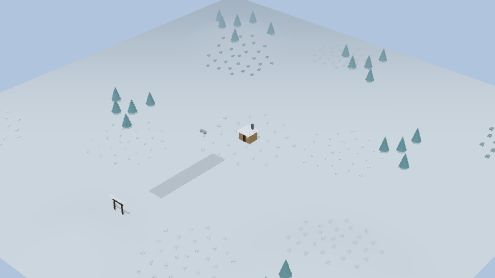
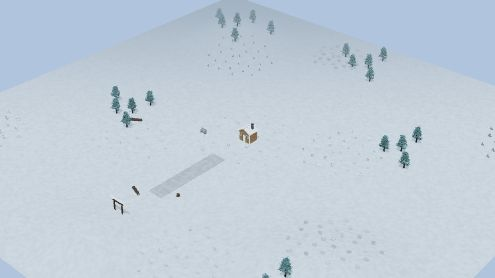
Add natural woodland props and varied plant clumps

diff --git a/src/scene/Plants.tsx b/src/scene/Plants.tsx
@@ -1,27 +1,35 @@
 import { useEffect, useLayoutEffect, useMemo, useRef } from 'react'
 import { BufferGeometry, CircleGeometry, Color, DoubleSide, CylinderGeometry, Float32BufferAttribute, IcosahedronGeometry, InstancedMesh, Object3D, SphereGeometry } from 'three'
 import { mergeGeometries, mergeVertices } from 'three/addons/utils/BufferGeometryUtils.js'
-import { leafGeometry, seedFor } from './natural-geometry'
+import { leafGeometry, randomSource, seedFor } from './natural-geometry'
 import type { WorldObject } from '../world/schema'
 
 type Plant = Extract<WorldObject, { type: 'plant' }>
+export const plantVariant = (plant: Plant) => seedFor(plant.id) % 3
 
 // Each cluster is one merged low-poly mesh; repeated clusters are instanced.
-export function plantGeometry(plant: Plant, lowDetail: boolean) {
+export function plantGeometry(plant: Plant, lowDetail: boolean, variant = plantVariant(plant)) {
   const parts: BufferGeometry[] = []
+  const random = randomSource(825 + variant * 173)
+  let stemX = 0, stemZ = 0, lean = 0, shade = 1
   const add = (geometry: BufferGeometry, color: string, x: number, y: number, z: number, sx = 1, sy = 1, sz = 1, tilt = 0) => {
     const g = geometry.index ? geometry.toNonIndexed() : geometry
     if (g !== geometry) geometry.dispose()
     g.scale(sx, sy, sz).rotateZ(tilt).translate(x, y, z)
-    const c = new Color(color), colors = []
+    // Bend the whole stem and its attached flowers/leaves together at the base.
+    g.translate(-stemX, 0, -stemZ).rotateZ(lean).translate(stemX, 0, stemZ)
+    const c = new Color(color).multiplyScalar(shade), colors = []
     for (let i = 0; i < g.getAttribute('position').count; i++) colors.push(c.r, c.g, c.b)
     g.setAttribute('color', new Float32BufferAttribute(colors, 3))
     g.deleteAttribute('uv')
     parts.push(g)
   }
   for (let i = 0; i < (lowDetail ? 3 : 5); i++) {
-    const angle = i * 2.4, radius = i === 0 ? 0 : 0.28 + (i % 2) * 0.15
-    const x = Math.cos(angle) * radius, z = Math.sin(angle) * radius, h = 0.55 + (i % 3) * 0.18
+    const angle = i * 2.4 + (random() - 0.5) * 1.1, radius = i === 0 ? 0 : 0.22 + random() * 0.2
+    const x = Math.cos(angle) * radius, z = Math.sin(angle) * radius, h = 0.45 + random() * 0.5
+    stemX = x; stemZ = z
+    lean = plant.variety === 'bamboo' || plant.variety === 'cactus' ? 0 : (random() - 0.5) * 0.2
+    shade = 0.88 + random() * 0.24
     switch (plant.variety) {
       case 'bamboo':
         add(new CylinderGeometry(0.045, 0.065, 2.6 + h, 5), plant.color, x, (2.6 + h) / 2, z)
@@ -70,9 +78,9 @@ export function plantGeometry(plant: Plant, lowDetail: boolean) {
   return result
 }
 
-function PlantBatch({ plants, lowDetail }: { plants: Plant[]; lowDetail: boolean }) {
+function PlantBatch({ plants, lowDetail, variant }: { plants: Plant[]; lowDetail: boolean; variant: number }) {
   const mesh = useRef<InstancedMesh>(null)
-  const geometry = useMemo(() => plantGeometry(plants[0], lowDetail), [plants, lowDetail])
+  const geometry = useMemo(() => plantGeometry(plants[0], lowDetail, variant), [plants, lowDetail, variant])
   useEffect(() => () => geometry.dispose(), [geometry])
   useLayoutEffect(() => {
     const transform = new Object3D()
@@ -97,12 +105,12 @@ export function Plants({ objects, lowDetail }: { objects: WorldObject[]; lowDeta
   const batches = useMemo(() => {
     const groups = new Map<string, Plant[]>()
     for (const object of objects) if (object.type === 'plant') {
-      const key = `${object.variety}/${object.color}/${object.accentColor}`
+      const key = `${object.variety}/${object.color}/${object.accentColor}/${plantVariant(object)}`
       const group = groups.get(key) ?? []
       group.push(object)
       groups.set(key, group)
     }
     return [...groups]
   }, [objects])
-  return batches.map(([key, plants]) => <PlantBatch key={key} plants={plants} lowDetail={lowDetail} />)
+  return batches.map(([key, plants]) => <PlantBatch key={key} plants={plants} lowDetail={lowDetail} variant={plantVariant(plants[0])} />)
 }

diff --git a/src/scene/artifact-geometry.ts b/src/scene/artifact-geometry.ts
@@ -1,4 +1,5 @@
-import { BoxGeometry, Color, ConeGeometry, CylinderGeometry, ExtrudeGeometry, Shape, SphereGeometry, Vector3 } from 'three'
+import type { BufferGeometry } from 'three'
+import { BoxGeometry, CircleGeometry, Color, ConeGeometry, CylinderGeometry, ExtrudeGeometry, RingGeometry, Shape, SphereGeometry, Vector3 } from 'three'
 import { RoundedBoxGeometry } from 'three/addons/geometries/RoundedBoxGeometry.js'
 import type { WorldObject } from '../world/schema'
 import { branchGeometry, geometryBuilder, randomSource } from './natural-geometry'
@@ -56,6 +57,48 @@ export function artifactGeometry(object: Artifact) {
     block([0, 2.6, 0], [3.15, 0.18, 0.23])
     block([0, 3.18, 0], [2.8, 0.22, 0.5], trim)
     block([0, 2.88, 0], [0.18, 0.6, 0.18])
+  } else if (object.variety === 'fallen-log' || object.variety === 'stump') {
+    const log = object.variety === 'fallen-log'
+    const length = log ? 2.9 : 0.62, bottom = log ? 0.34 : 0.38, top = log ? 0.27 : 0.3
+    const slope = log ? Math.atan((bottom - top) / length) : 0
+    const orient = (g: BufferGeometry, end = 0) => {
+      // The tapered log rests at both ends instead of hovering at its thin end.
+      if (log) g.rotateZ(-Math.PI / 2 - slope).translate(end * Math.cos(slope), 0.31 - end * Math.sin(slope), 0)
+      else g.translate(0, end, 0)
+      return g
+    }
+    // Closed wood ends, with rings on the actual cut planes rather than floating
+    // perpendicular branch stubs. Bark remains one merged, indexed mesh.
+    builder.add(orient(new CylinderGeometry(top, bottom, length, 13), 0).translate(0, log ? 0 : length / 2, 0), body)
+    for (const end of log ? [-1, 1] : [1]) {
+      const radius = (end < 0 ? bottom : top) - 0.012
+      const cut = end * length / (log ? 2 : 1) + end * 0.002
+      const face = new CircleGeometry(radius, 32).rotateX(-Math.PI / 2)
+      // Reverse the left end so its visible face points outward.
+      if (end < 0) face.rotateX(Math.PI)
+      builder.add(orient(face, cut), trim)
+      for (let ring = 1; ring <= 6; ring++) {
+        const r = radius * ring / 7
+        const g = new RingGeometry(r - 0.0035, r + 0.0035, 32).rotateX(-Math.PI / 2)
+        if (end < 0) g.rotateX(Math.PI)
+        builder.add(orient(g, cut + end * 0.001), dark)
+      }
+    }
+    for (let ridge = 0; ridge < 13; ridge++) {
+      const angle = ridge * Math.PI * 2 / 13
+      const lower = bottom * 0.95 + top * 0.05 - 0.012, upper = top * 0.95 + bottom * 0.05 - 0.012
+      const g = branchGeometry(new Vector3(Math.cos(angle) * lower, -length * 0.45, Math.sin(angle) * lower),
+        new Vector3(Math.cos(angle) * upper, length * 0.45, Math.sin(angle) * upper), 0.025, 0.016)
+      builder.add(orient(g).translate(0, log ? 0 : length / 2, 0), ridge % 3 ? body : dark)
+    }
+    // A few subdued moss islands hug the upper bark; no extra meshes or colliders.
+    for (let i = 0; i < (log ? 6 : 3); i++) {
+      const x = log ? -0.95 + i * 0.36 : Math.cos(i * 2.4) * 0.21
+      const z = log ? Math.sin(i * 2.4) * 0.12 : Math.sin(i * 2.4) * 0.21
+      const radius = bottom + (top - bottom) * (x / length + 0.5)
+      const y = log ? 0.31 - x * Math.sin(slope) + Math.sqrt(Math.max(0, radius ** 2 - z ** 2)) : length + 0.008
+      builder.add(new SphereGeometry(0.12, 7, 4).scale(1.3, 0.18, 0.7).translate(x, y, z), '#65754b', 0.85 + i * 0.03)
+    }
   } else if (object.variety === 'bench') {
     for (let slat = 0; slat < 4; slat++) block([0, 0.55, -0.24 + slat * 0.16], [1.8, 0.12, 0.14], trim)
     for (const x of [-0.6, 0.6]) {

diff --git a/src/world/object-bounds.test.ts b/src/world/object-bounds.test.ts
@@ -33,14 +33,14 @@ describe('generated object boundaries', () => {
     const objects: WorldObject[] = [
       ...(['pine', 'maple', 'spruce', 'palm'] as const).map(variety => ({ ...transform, type: 'tree' as const, variety, foliageColor: '#557755', trunkColor: '#665544' })),
       ...(['grass', 'flowers', 'reeds', 'bamboo', 'cactus', 'fern', 'mushrooms'] as const).map(variety => ({ ...transform, type: 'plant' as const, variety, color: '#557755', accentColor: '#ccaaaa' })),
-      ...(['arch', 'bench', 'cabin', 'column', 'pavilion', 'beacon', 'windmill'] as const).map(variety => ({ ...transform, type: 'structure' as const, variety, color: '#998877', accentColor: '#ccaaaa' })),
+      ...(['arch', 'bench', 'cabin', 'column', 'pavilion', 'beacon', 'windmill', 'fallen-log', 'stump'] as const).map(variety => ({ ...transform, type: 'structure' as const, variety, color: '#998877', accentColor: '#ccaaaa' })),
       { ...transform, type: 'entrance', woodColor: '#998877', roofColor: '#665544' },
       { ...transform, type: 'lantern', stoneColor: '#998877', glowColor: '#ccaaaa' },
       { ...transform, type: 'rock', color: '#998877' },
     ]
     for (const object of objects) for (const lowDetail of [false, true]) for (const variant of [0, 1, 2]) {
       const geometry = object.type === 'tree' ? treeGeometry(object, lowDetail, variant)
-        : object.type === 'plant' ? plantGeometry(object, lowDetail)
+        : object.type === 'plant' ? plantGeometry(object, lowDetail, variant)
         : object.type === 'rock' ? rockGeometry(object, variant)
         : artifactGeometry(object as Extract<WorldObject, { type: 'structure' | 'entrance' | 'lantern' }>)
       try {

diff --git a/src/scene/natural-geometry.test.ts b/src/scene/natural-geometry.test.ts
@@ -6,6 +6,16 @@ import type { WorldObject } from '../world/schema'
 
 const transform = { id: 'fixture', position: [0, 0, 0] as [number, number, number], scale: [1, 1, 1] as [number, number, number], rotation: 0 }
 describe('natural asset geometry budgets and variation', () => {
+  it('varies plant clump shapes deterministically while retaining a small fallback mesh', () => {
+    const plant = { ...transform, type: 'plant' as const, variety: 'flowers' as const, color: '#537c34', accentColor: '#ccb147' }
+    const a = plantGeometry(plant, false, 0), b = plantGeometry(plant, false, 0), c = plantGeometry(plant, false, 1), low = plantGeometry(plant, true, 0)
+    try {
+      expect(a.getAttribute('position').array).toEqual(b.getAttribute('position').array)
+      expect(a.getAttribute('position').array).not.toEqual(c.getAttribute('position').array)
+      expect(low.getIndex()!.count).toBeLessThan(a.getIndex()!.count)
+      expect(a.getIndex()!.count / 3).toBeLessThan(1200)
+    } finally { a.dispose(); b.dispose(); c.dispose(); low.dispose() }
+  })
   it('builds deterministic but distinct tree variants within a bounded mesh budget', () => {
     const tree: Extract<WorldObject, { type: 'tree' }> = { ...transform, type: 'tree', variety: 'maple', trunkColor: '#785638', foliageColor: '#548637' }
     const a = treeGeometry(tree, false, 0), b = treeGeometry(tree, false, 0), c = treeGeometry(tree, false, 1), reduced = treeGeometry(tree, true, 0)

diff --git a/netlify/functions/create-world.ts b/netlify/functions/create-world.ts
@@ -46,7 +46,11 @@ Aim for 240–320 small ground-cover plants in suitable environments. Use trees 
 Use 2–4 consistent plant palettes to benefit instancing. Vary terrain, water count and shape (including none),
 vegetation density/species, scale, landmarks, composition, fog, sky and light to match the prompt.
 Asset types: tree (pine/maple/spruce/palm); plant (grass/flowers/reeds/bamboo/cactus/fern/mushrooms);
-structure (arch/pavilion/cabin/beacon/windmill/column/bench); rock; pond; path; patch; lantern; entrance.
+structure (arch/pavilion/cabin/beacon/windmill/column/bench/fallen-log/stump); rock; pond; path; patch; lantern; entrance.
+For woodland and forest, a few fallen-log/stump structures add natural history beside the route.
+Logs are about 2.9m long and 0.7m wide/high, stumps about 0.8m wide and 0.65m tall.
+Their color is bark, accentColor is exposed wood. They are blocking solids: count 1, spread 0.
+Place them off paths on flat ground, with small fern/mushroom drifts nearby. They use the existing complex-object budget.
 Trees are 3–4m tall and 2–3m wide; plants 1–1.5m wide (bamboo 3m tall); cabin 3x2.5m;
 pavilion 3x3m; arch 3.8m wide; beacon/windmill 5m tall. Scale 0.3–2; prefer 0.7–1.3 except forest trees which benefit from 1.5–2.
 Keep objects within ground with margins for their full visible footprints, not only centers or colliders.

diff --git a/src/world/catalog.ts b/src/world/catalog.ts
@@ -13,7 +13,7 @@ import { parseWorld } from './schema'
 // uses the same validated data boundary that future generated worlds will use.
 export const worldCatalog = [
   { data: meadow, theme: '128 × 128 m · Open landscape', description: 'Follow long meadow trails between a hilltop windmill, quiet lakes, and distant woodland groves.' },
-  { data: silverwood, theme: '128 × 128 m · Frosted woodland', description: 'Wander through blue-green spruce groves, silver grass, and white flowers to a quiet cabin and distant windmill.' },
+  { data: silverwood, theme: '128 × 128 m · Frosted woodland', description: 'Wander through blue-green spruce groves, fallen timber, silver grass, and white flowers to a quiet cabin and distant windmill.' },
   { data: amberMeadow, theme: '24 × 22 m · Flowering meadow', description: 'Explore a sunny meadow of flowering plants, rolling hills, and quiet garden landmarks.' },
   { data: basaltReach, theme: '26 × 24 m · Rocky highlands', description: 'Follow a rugged highland path among dark stone, hardy plants, and distant peaks.' },
   { data: frostlightGrove, theme: '24 × 22 m · Snowy grove', description: 'Wander a frosted grove of pale trees, snow, and a sheltered clearing.' },

diff --git a/src/world/generation.test.ts b/src/world/generation.test.ts
@@ -5,6 +5,15 @@ import { createNavigation, isWalkable } from '../controls/navigation'
 import { testBlueprint } from './generation-fixture'
 
 describe('generation compiler', () => {
+  it.each(['fallen-log', 'stump'])('supplies blocking collision and boundary checks for %s', variety => {
+    const plan = { ...testBlueprint(), ground: { size: [48, 48], color: '#708060' },
+      assets: [{ type: 'structure', variety, color: '#635448', accentColor: '#bd9a69' }],
+      placements: [{ asset: 0, position: [0, 0], rotation: 0.6, scale: [1.2, 1, 0.8] }] }
+    const world = compileBlueprint(plan, 'natural-prop')
+    expect(isWalkable({ x: 0, z: 0 }, createNavigation(world))).toBe(false)
+    expect(world.objects[0].collision).toHaveLength(1)
+    expect(() => compileBlueprint({ ...plan, placements: [{ ...plan.placements[0], position: [23.9, 0] }] }, 'overhanging-prop')).toThrow('Object outside the world')
+  })
   it.each([[48, 48], [64, 64], [96, 96], [128, 128], [48, 64]])('accepts a %s by %s world with an authored arrival', (width, depth) => {
     const plan = { ...testBlueprint(), ground: { size: [width, depth], color: '#708060' }, arrival: [0, 10] }
     const world = compileBlueprint(plan, 'variable-size')

diff --git a/src/world/schema.ts b/src/world/schema.ts
@@ -30,7 +30,7 @@ export const worldObjectSchema = z.discriminatedUnion('type', [
   z.strictObject({ ...transform, type: z.literal('rock'), color, mossColor: color.optional() }),
   z.strictObject({ ...transform, type: z.literal('tree'), variety: z.enum(['pine', 'maple', 'spruce', 'palm']), foliageColor: color, trunkColor: color }),
   z.strictObject({ ...transform, type: z.literal('plant'), variety: z.enum(['grass', 'flowers', 'reeds', 'bamboo', 'cactus', 'fern', 'mushrooms']), color, accentColor: color }),
-  z.strictObject({ ...transform, type: z.literal('structure'), variety: z.enum(['arch', 'pavilion', 'cabin', 'beacon', 'windmill', 'column', 'bench']), color, accentColor: color }),
+  z.strictObject({ ...transform, type: z.literal('structure'), variety: z.enum(['arch', 'pavilion', 'cabin', 'beacon', 'windmill', 'column', 'bench', 'fallen-log', 'stump']), color, accentColor: color }),
   z.strictObject({ ...transform, type: z.literal('patch'), radii: z.tuple([dimension, dimension]), color }),
   z.strictObject({ ...transform, type: z.literal('lantern'), stoneColor: color, glowColor: color }),
   z.strictObject({ ...transform, type: z.literal('entrance'), woodColor: color, roofColor: color }),

diff --git a/src/scene/artifact-geometry.test.ts b/src/scene/artifact-geometry.test.ts
@@ -3,7 +3,7 @@ import { artifactGeometry } from './artifact-geometry'
 import type { Artifact } from './artifact-geometry'
 const transform = { id: 'fixture', position: [0, 0, 0] as [number, number, number], scale: [1, 1, 1] as [number, number, number], rotation: 0 }
 const artifacts: Artifact[] = [
-  ...(['arch', 'pavilion', 'cabin', 'beacon', 'windmill', 'column', 'bench'] as const).map(variety => ({ ...transform, type: 'structure' as const, variety, color: '#786447', accentColor: '#6b7665' })),
+  ...(['arch', 'pavilion', 'cabin', 'beacon', 'windmill', 'column', 'bench', 'fallen-log', 'stump'] as const).map(variety => ({ ...transform, type: 'structure' as const, variety, color: '#786447', accentColor: '#6b7665' })),
   { ...transform, type: 'entrance', woodColor: '#786447', roofColor: '#6b7665' },
   { ...transform, type: 'lantern', stoneColor: '#786447', glowColor: '#ffeeaa' },
 ]

diff --git a/src/scene/Structure.tsx b/src/scene/Structure.tsx
@@ -6,7 +6,7 @@ import { SurfaceMaterial } from './SurfaceMaterial'
 export function Structure({ object, lowDetail = false }: { object: Artifact; lowDetail?: boolean }) {
   const geometry = useMemo(() => artifactGeometry(object), [object])
   useEffect(() => () => geometry.dispose(), [geometry])
-  const wood = object.type === 'entrance' || (object.type === 'structure' && ['bench', 'cabin', 'pavilion', 'windmill'].includes(object.variety))
+  const wood = object.type === 'entrance' || (object.type === 'structure' && ['bench', 'cabin', 'pavilion', 'windmill', 'fallen-log', 'stump'].includes(object.variety))
   return <group>
     <mesh geometry={geometry} castShadow receiveShadow>
       {lowDetail ? <meshStandardMaterial vertexColors roughness={0.94} /> : <SurfaceMaterial vertexColors grain={0.12} finish={wood ? 'wood' : 'stone'} relief={false} />}

diff --git a/src/world/generation.ts b/src/world/generation.ts
@@ -39,6 +39,8 @@ function collisions(object: WorldObject): WorldObject['collision'] {
     case 'entrance': return [ellipse([0.3, 0.3], [-1.2, 0]), ellipse([0.3, 0.3], [1.2, 0])]
     case 'plant': return ['cactus', 'bamboo'].includes(object.variety) ? [ellipse([0.65, 0.65])] : []
     case 'structure':
+      if (object.variety === 'fallen-log') return [box([3.1, 0.9])]
+      if (object.variety === 'stump') return [ellipse([0.42, 0.42])]
       if (object.variety === 'arch') return [box([0.7, 1], [-1.4, 0]), box([0.7, 1], [1.4, 0])]
       if (object.variety === 'pavilion') return [-1.2, 1.2].flatMap(x => [-1.2, 1.2].map(z => box([0.25, 0.25], [x, z])))
       return [box(object.variety === 'cabin' ? [3, 2.5] : object.variety === 'column' ? [1.2, 1.2] : object.variety === 'bench' ? [1.9, 0.7] : [2.4, 2.4])]

diff --git a/src/scene/vegetation-clearance.ts b/src/scene/vegetation-clearance.ts
@@ -13,8 +13,8 @@ export function plantFootprint(plant: Plant): Bounds {
   let bounds = footprintCache.get(plant.variety)
   if (!bounds) {
     bounds = { minX: Infinity, maxX: -Infinity, minZ: Infinity, maxZ: -Infinity }
-    for (const lowDetail of [false, true]) {
-      const geometry = plantGeometry(plant, lowDetail)
+    for (const lowDetail of [false, true]) for (const variant of [0, 1, 2]) {
+      const geometry = plantGeometry(plant, lowDetail, variant)
       geometry.computeBoundingBox()
       const box = geometry.boundingBox!
       bounds.minX = Math.min(bounds.minX, box.min.x); bounds.maxX = Math.max(bounds.maxX, box.max.x)
